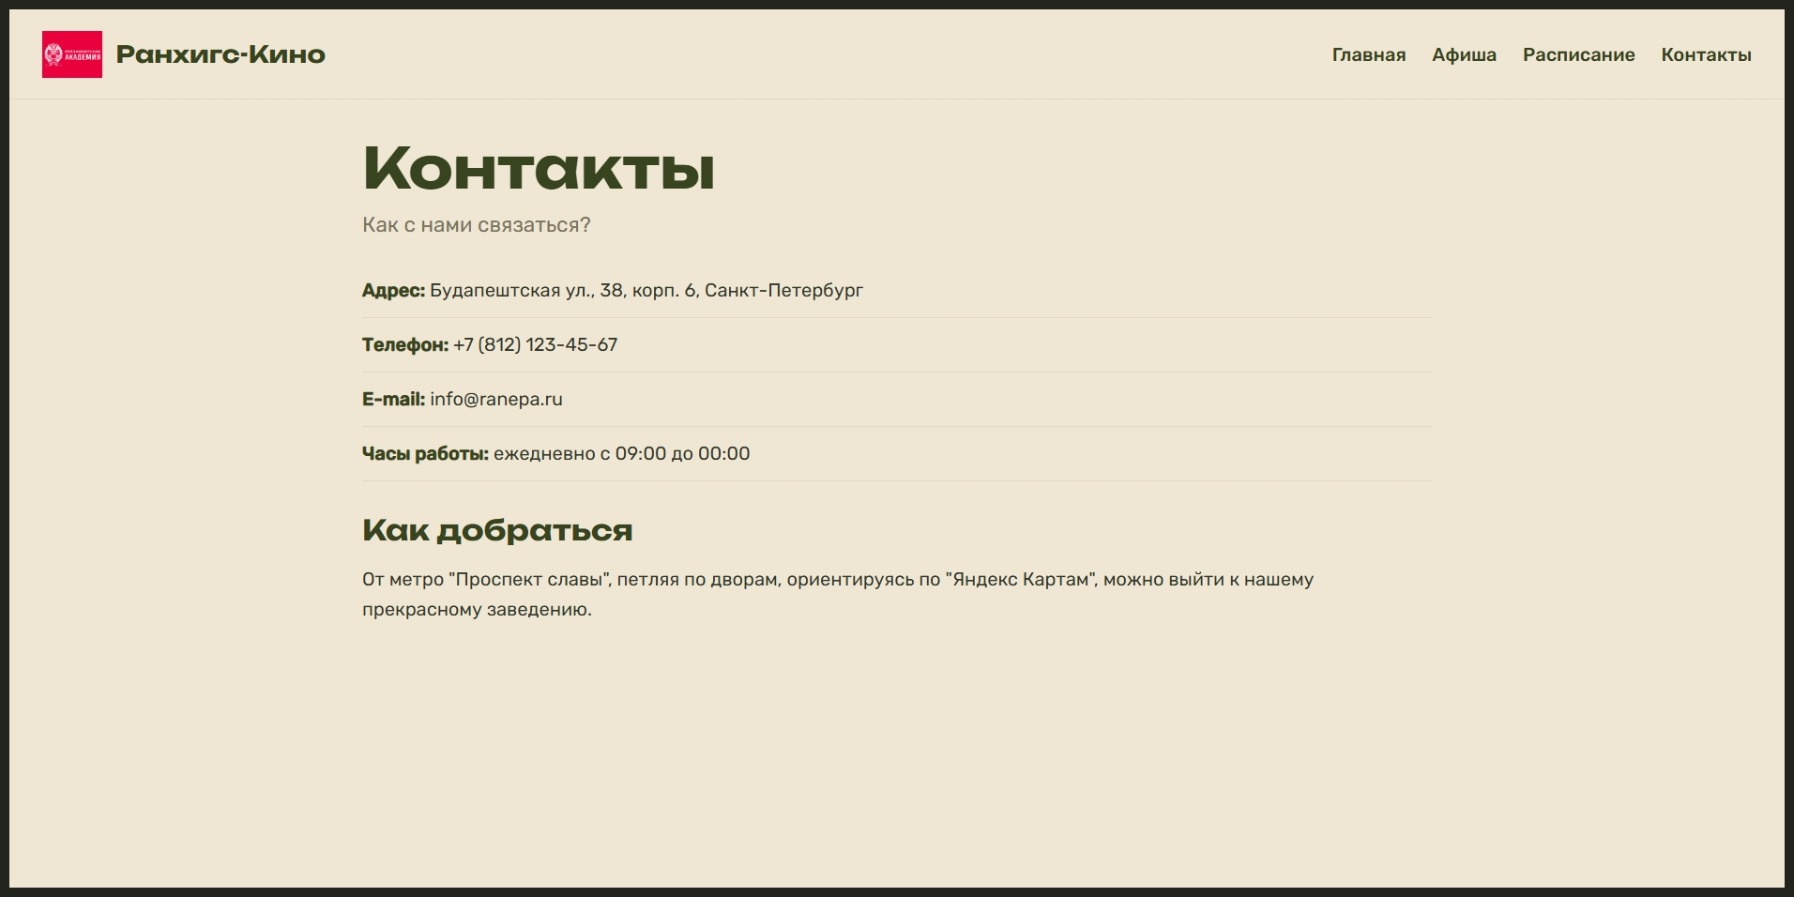
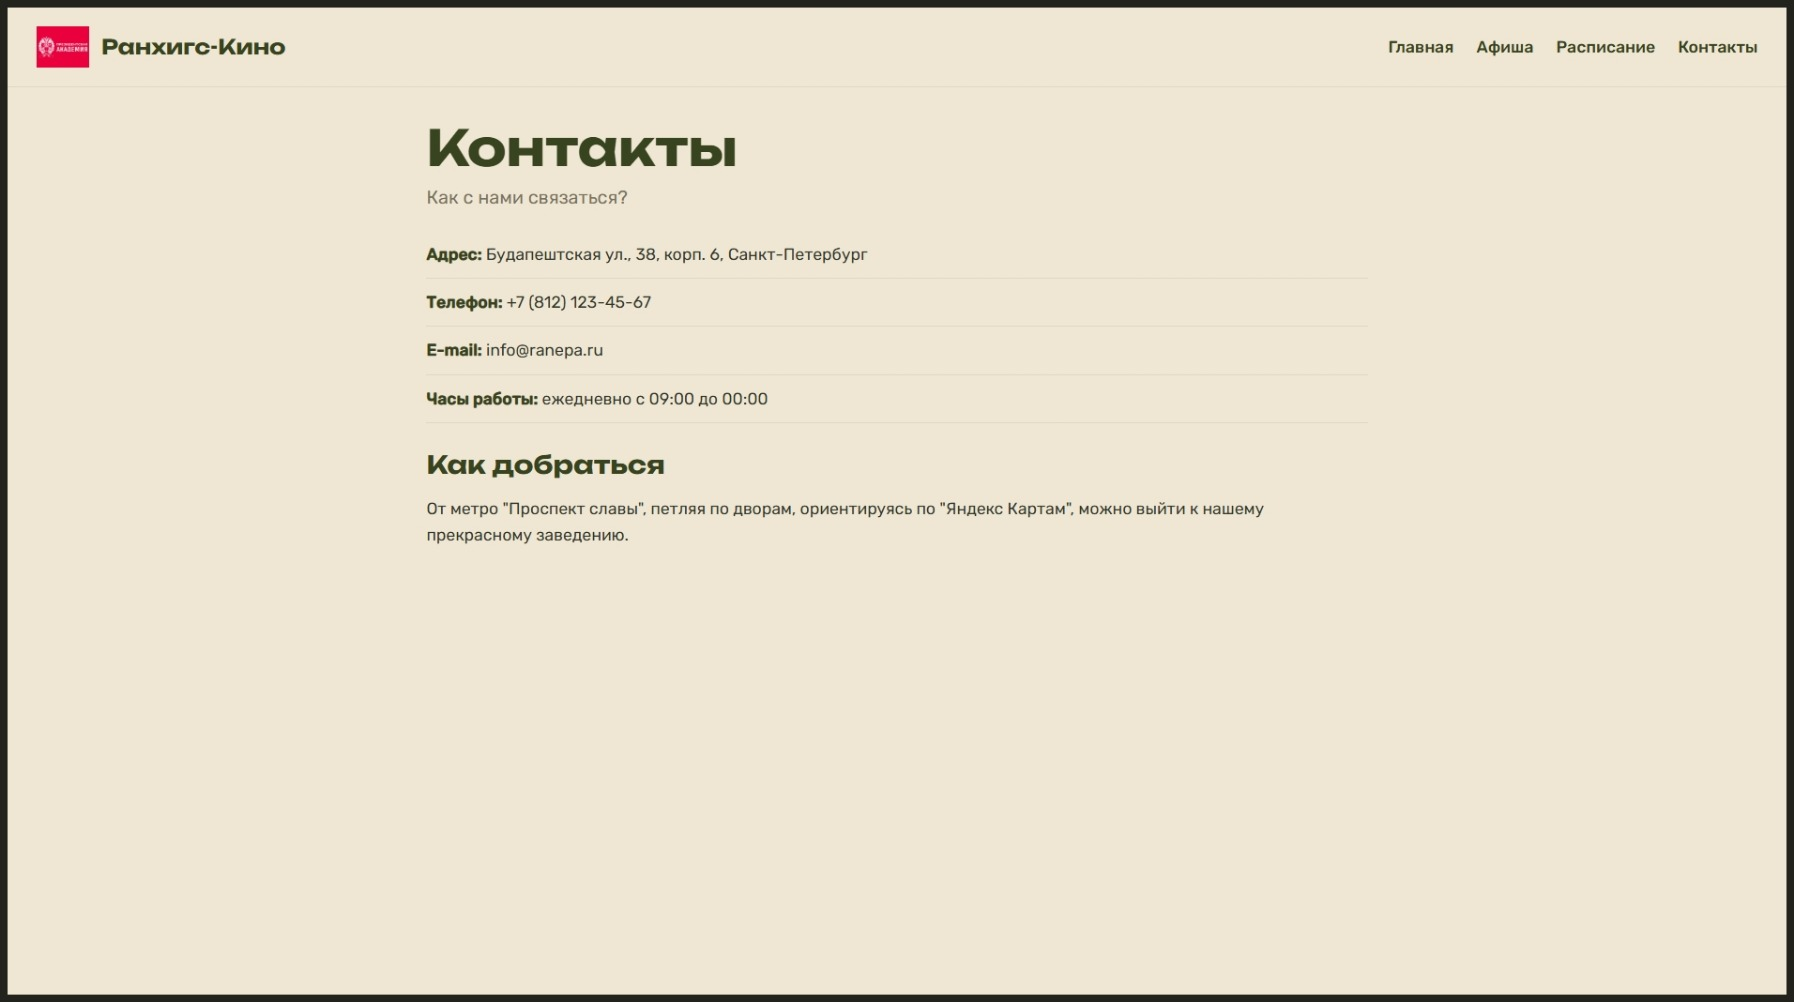
Реадми: обновление скриншотов сайта

diff --git a/README.md b/README.md
@@ -39,6 +39,14 @@ py run.py
 
 ![Главная](.github/home.jpeg)
 
+**Афиша**
+
+![Афиша](.github/films.jpeg)
+
+**Информация о фильме**
+
+![Информация о фильме](.github/film_detail.jpeg)
+
 **Расписание**
 
 ![Расписание](.github/schedule.jpeg)
